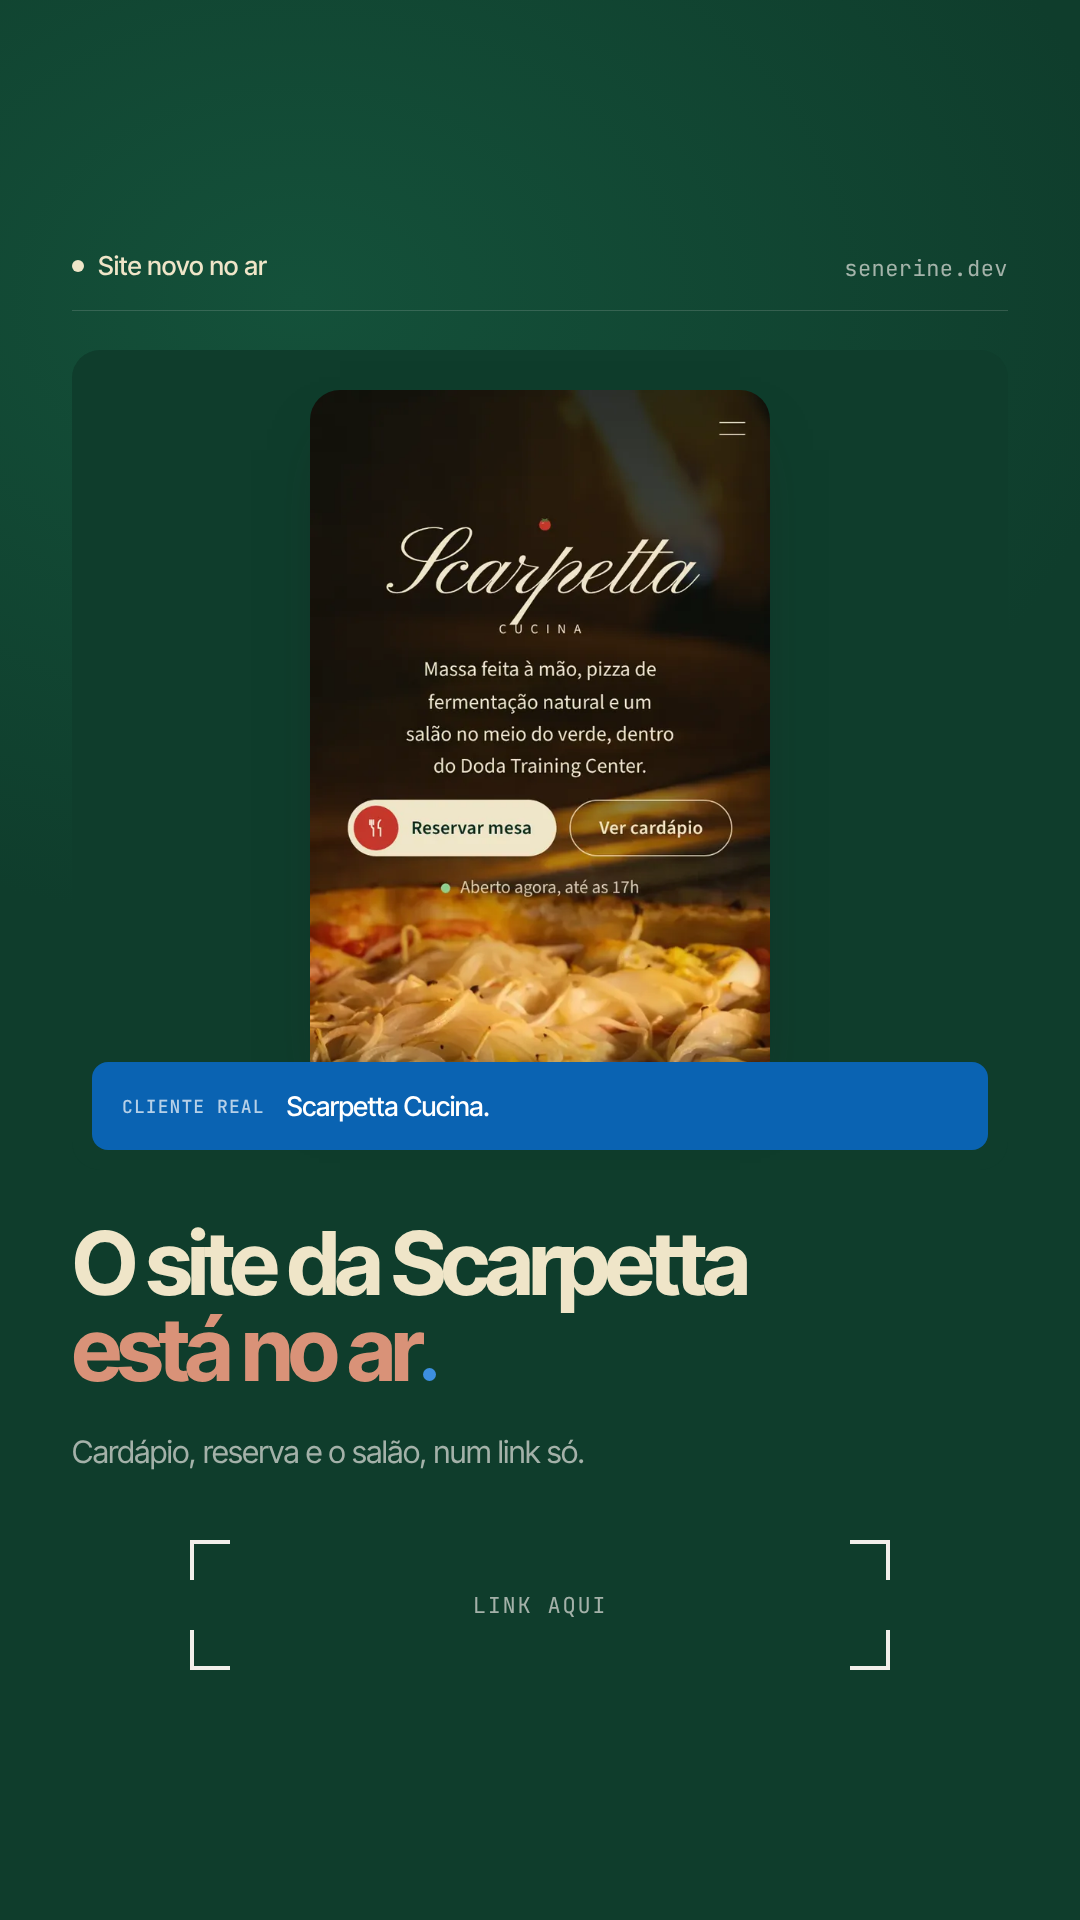
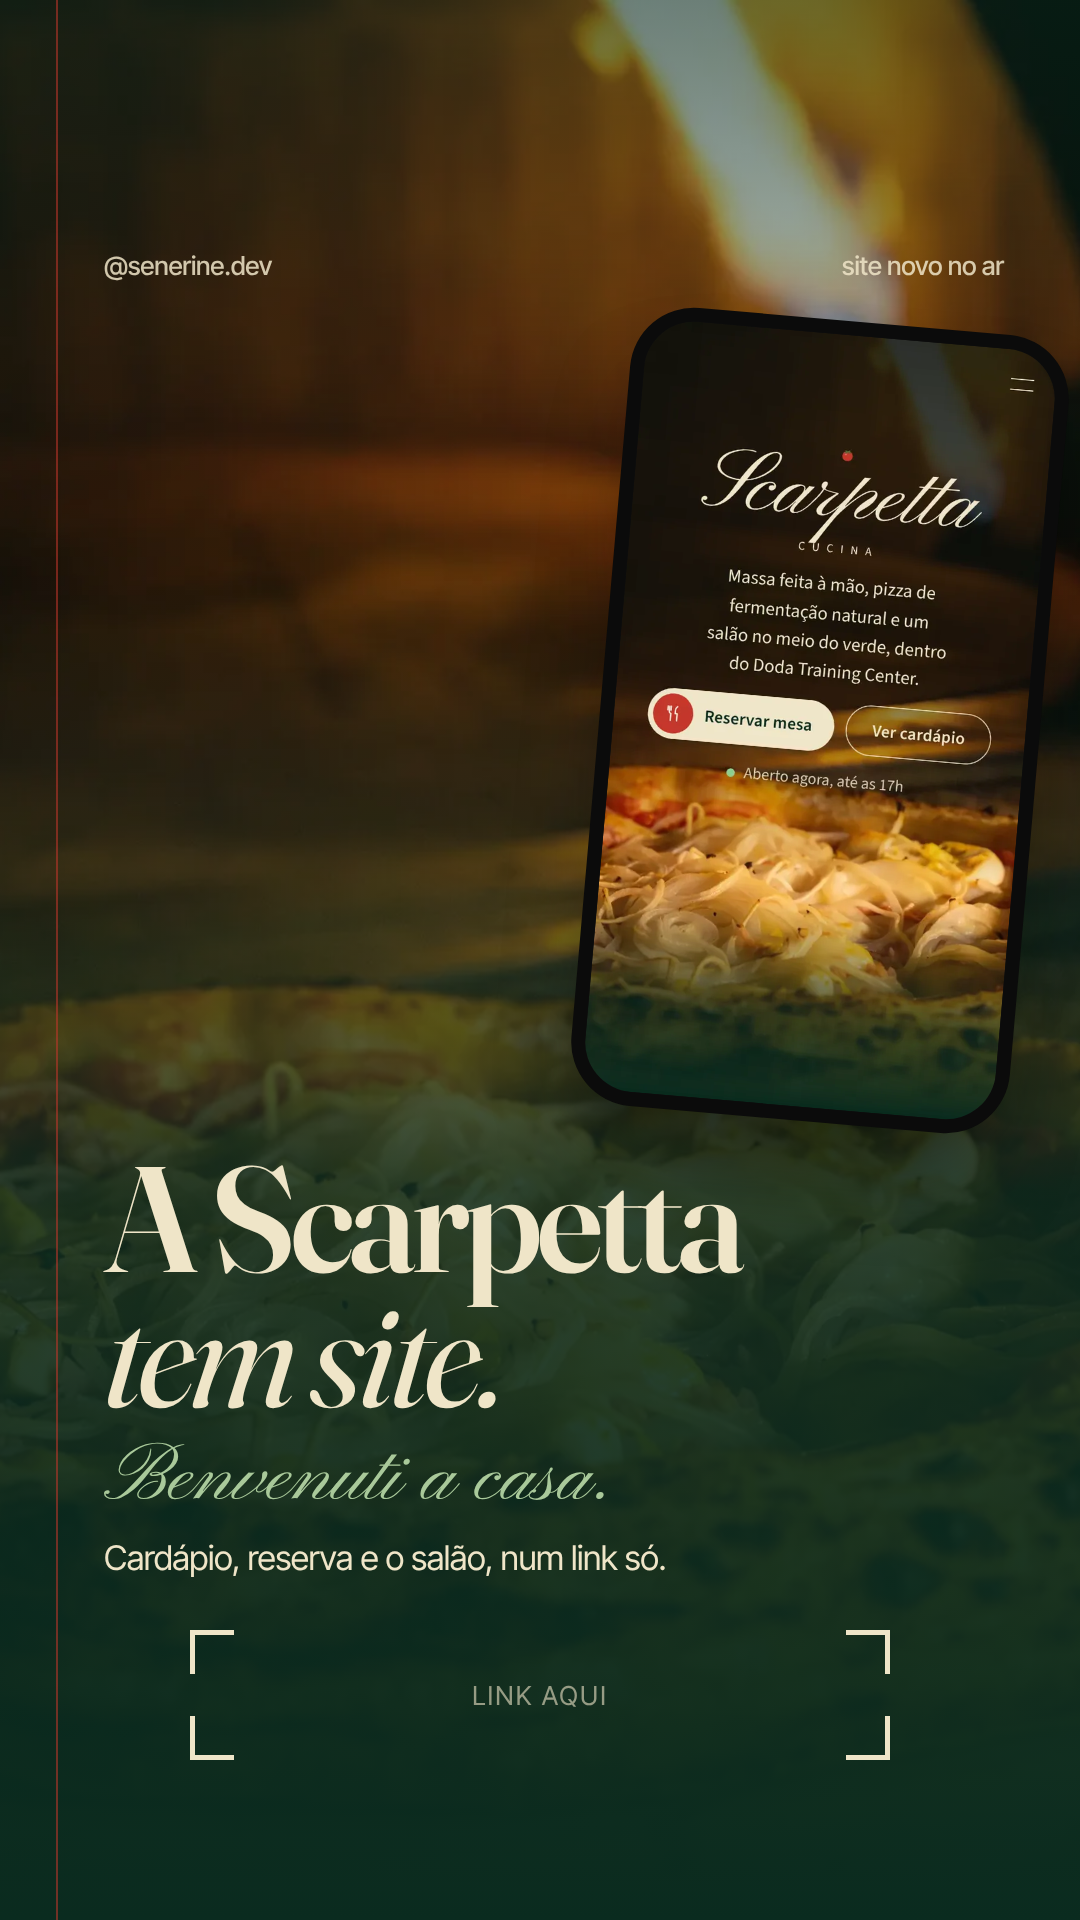
Story da Scarpetta no estilo do case grande
Claude-Session: https://claude.ai/code/session_01P2gMEPFx4h5Snu2b9VrmuT

diff --git a/modelos/stories/scarpetta-link.py b/modelos/stories/scarpetta-link.py
@@ -1,54 +1,48 @@
-"""Story do site da Scarpetta no padrão dos primeiros posts (fundo escuro, cartão na cor da casa, faixa azul),
-com espaço pra figurinha de link. 1080x1920."""
+"""Story do site da Scarpetta no estilo do case grande (inspirado no Teacher Leal), com espaço pra figurinha de link. 1080x1920."""
 
-HEAD = r'''<!doctype html><html lang="pt-BR"><head><meta charset="utf-8">
-<link rel="stylesheet" href="../../fontes/fontes.css"><style>
-:root { --bg:#1e1d1e; --ink:#f2efea; --muted:rgba(242,239,234,.66); --line:rgba(242,239,234,.16); --blue:#0a63b2; --warm:#d99278; }
+CSS = r'''
 * { box-sizing:border-box; margin:0; padding:0; }
-body { width:1080px; background:#000; font-family:"Inter Tight",sans-serif; }
-.s { position:relative; width:1080px; height:1920px; overflow:hidden; background:var(--bg); color:var(--ink); }
-.s > * { position:absolute; }
-.mono { font-family:"JetBrains Mono",monospace; font-size:22px; letter-spacing:.02em; }
-.kick { left:72px; top:66px; display:flex; align-items:center; gap:14px; font-size:26px; font-weight:500; }
-.kick i { width:12px; height:12px; border-radius:50%; background:currentColor; }
-.folio { right:72px; top:70px; color:var(--muted); }
-.rule { left:72px; right:72px; height:1px; background:var(--line); }
-.logo { left:72px; top:1358px; font-size:30px; font-weight:700; letter-spacing:-.05em; }
-.logo span { color:#5aa3e8; }
-.logo i { display:inline-block; width:8px; height:8px; border-radius:50%; background:#5aa3e8; margin:0 1px 0 2px; }
-.swipe { right:72px; top:1364px; color:var(--muted); }
-.card { left:72px; right:72px; top:156px; height:720px; border-radius:28px; overflow:hidden; background:#f2efea; color:#1e1d1e; }
-.card > * { position:absolute; }
-.band { left:20px; right:20px; bottom:20px; height:88px; border-radius:16px; background:var(--blue); color:#fff; display:flex; align-items:center; gap:22px; padding:0 30px; font-size:27px; font-weight:500; letter-spacing:-.02em; z-index:10; }
-.band .mono { font-size:18px; letter-spacing:.06em; text-transform:uppercase; opacity:.7; flex:none; }
-.t { left:72px; right:72px; top:926px; font-size:88px; font-weight:700; line-height:.98; letter-spacing:-.055em; }
-.t em { font-style:normal; color:var(--warm); }
-.dot { display:inline-block; width:.15em; height:.15em; border-radius:50%; background:#3d8fe0; margin-left:.04em; }
-.p { left:72px; width:820px; top:1140px; font-size:31px; line-height:1.4; color:var(--muted); letter-spacing:-.015em; }
-.scr { border-radius:30px; overflow:hidden; box-shadow:0 30px 60px -30px rgba(30,29,30,.55); }
-.scr img { position:absolute; left:0; display:block; }
-.ui { font-family:"Inter Tight",sans-serif; }
-.scr img { width:100%; top:0; }
-.cap { font-family:"JetBrains Mono",monospace; font-size:18px; letter-spacing:.06em; text-transform:uppercase; color:#efe5c8; opacity:.75; }
-</style></head><body>
+body { width:1080px; height:1920px; overflow:hidden; position:relative; font-family:"Inter Tight",sans-serif; }
+.a { position:absolute; }
+.bg { top:0; width:1080px; height:1440px; }
+.bg img { width:100%; height:100%; object-fit:cover; display:block; }
+.linhas { top:0; width:1080px; height:1440px; background:repeating-linear-gradient(180deg, transparent 0 63px, rgba(15,61,44,.08) 63px 64px); }
+.top, .pe { font-size:26px; font-weight:500; letter-spacing:-.01em; z-index:6; }
+.h { font-family:"Fraunces",serif; font-weight:600; line-height:.9; letter-spacing:-.035em; z-index:5; }
+.h i { font-weight:400; }
+.it { font-family:"Pinyon Script",cursive; line-height:1; z-index:5; }
+.p { font-size:34px; line-height:1.35; letter-spacing:-.015em; z-index:5; }
+.cel { border-radius:64px; padding:14px; background:#0b0b0b; z-index:4; box-shadow:0 60px 90px -30px rgba(0,0,0,.55); }
+.cel img { display:block; width:100%; border-radius:50px; }
+.item { display:flex; align-items:baseline; gap:26px; padding:20px 0; border-top:2px solid rgba(15,61,44,.16); font-size:44px; font-weight:500; letter-spacing:-.03em; }
+.item b { font-family:"Fraunces",serif; font-style:italic; font-weight:400; color:#c4362b; font-size:34px; width:44px; }
+.ft { overflow:hidden; border-radius:10px; z-index:3; }
+.ft img { width:100%; height:100%; object-fit:cover; display:block; }
+.ft p { position:absolute; left:20px; right:20px; bottom:18px; color:#fff; font-family:"Fraunces",serif; font-size:32px; line-height:1.05; text-shadow:0 2px 14px rgba(0,0,0,.6); }
+.ft::after { content:""; position:absolute; inset:50% 0 0 0; background:linear-gradient(transparent, rgba(0,0,0,.55)); }
+.ft p { z-index:2; }
+.bolha { background:#fff; color:#111; border-radius:30px 30px 30px 8px; padding:34px 40px; font-size:36px; line-height:1.4; z-index:5; box-shadow:0 40px 60px -30px rgba(0,0,0,.5); }
 '''
 
 
-
 C = "../../elementos/clientes/scarpetta/"
-S = f"""<section class="s" id="s1" style="background:radial-gradient(1200px 900px at 300px 300px,#14513a,transparent 70%),#0f3d2c;color:#efe5c8">
-  <p class="kick" style="top:250px"><i></i>Site novo no ar</p><p class="folio mono" style="top:254px">senerine.dev</p>
-  <div class="rule" style="top:310px"></div>
-  <div class="card" style="top:350px;height:820px;background:#0f3d2c">
-    <div class="scr" style="left:238px;top:40px;width:460px;height:700px"><img src="{C}site.webp"></div>
-    <div class="band"><span class="mono">Cliente real</span><span>Scarpetta Cucina.</span></div></div>
-  <h2 class="t" style="top:1220px">O site da Scarpetta<br><em>está no ar</em><span class="dot"></span></h2>
-  <p class="p" style="top:1430px">Cardápio, reserva e o salão, num link só.</p>
-  <div style="left:190px;top:1540px;width:700px;height:130px">
-    <i style="position:absolute;left:0;top:0;width:40px;height:40px;border-left:4px solid var(--ink);border-top:4px solid var(--ink)"></i>
-    <i style="position:absolute;right:0;top:0;width:40px;height:40px;border-right:4px solid var(--ink);border-top:4px solid var(--ink)"></i>
-    <i style="position:absolute;left:0;bottom:0;width:40px;height:40px;border-left:4px solid var(--ink);border-bottom:4px solid var(--ink)"></i>
-    <i style="position:absolute;right:0;bottom:0;width:40px;height:40px;border-right:4px solid var(--ink);border-bottom:4px solid var(--ink)"></i>
-    <p class="mono" style="position:absolute;inset:0;display:grid;place-items:center;color:var(--muted);text-transform:uppercase;letter-spacing:.08em">link aqui</p></div>
-</section></body></html>"""
-open("scarpetta-link.html", "w").write(HEAD + S)
+F = C + "fotos/"
+VERDE, NOITE, CREME, MANJ, POMO = "#0f3d2c", "#0a2b1f", "#efe5c8", "#a9c99a", "#c4362b"
+S = f"""<section id="s1" style="position:relative;width:1080px;height:1920px;overflow:hidden">
+  <div class="a" style="inset:0;width:1080px;height:1920px"><img src="{F}forno.webp" style="width:100%;height:100%;object-fit:cover;object-position:center 30%"></div>
+  <div class="a" style="inset:0;width:1080px;height:1920px;background:linear-gradient(180deg, rgba(10,43,31,.6) 0%, rgba(10,43,31,.2) 30%, rgba(10,43,31,.85) 62%, {NOITE} 100%)"></div>
+  <div class="a" style="left:56px;top:0;width:2px;height:1920px;background:{POMO};opacity:.55;z-index:2"></div>
+  <p class="a top" style="left:104px;top:250px;color:{CREME};opacity:.85">@senerine.dev</p>
+  <p class="a top" style="left:604px;width:400px;text-align:right;top:250px;color:{CREME};opacity:.85">site novo no ar</p>
+  <div class="a cel" style="left:600px;top:320px;width:440px;rotate:5deg"><img src="{C}site.webp"></div>
+  <h2 class="a h" style="left:104px;top:1150px;font-size:150px;color:{CREME}">A Scarpetta<br><i>tem site.</i></h2>
+  <p class="a it" style="left:104px;top:1440px;font-size:80px;color:{MANJ}">Benvenuti a casa.</p>
+  <p class="a p" style="left:104px;top:1535px;width:860px;color:{CREME}">Cardápio, reserva e o salão, num link só.</p>
+  <div class="a" style="left:190px;top:1630px;width:700px;height:130px;z-index:6">
+    <i style="position:absolute;left:0;top:0;width:44px;height:44px;border-left:5px solid {CREME};border-top:5px solid {CREME}"></i>
+    <i style="position:absolute;right:0;top:0;width:44px;height:44px;border-right:5px solid {CREME};border-top:5px solid {CREME}"></i>
+    <i style="position:absolute;left:0;bottom:0;width:44px;height:44px;border-left:5px solid {CREME};border-bottom:5px solid {CREME}"></i>
+    <i style="position:absolute;right:0;bottom:0;width:44px;height:44px;border-right:5px solid {CREME};border-bottom:5px solid {CREME}"></i>
+    <p style="position:absolute;inset:0;display:grid;place-items:center;font-size:26px;letter-spacing:.08em;text-transform:uppercase;color:{CREME};opacity:.6">link aqui</p></div>
+</section>"""
+open("scarpetta-link.html", "w").write(f"""<!doctype html><html lang="pt-BR"><head><meta charset="utf-8"><link rel="stylesheet" href="../../fontes/fontes.css"><style>{CSS}</style></head><body>{S}</body></html>""")
